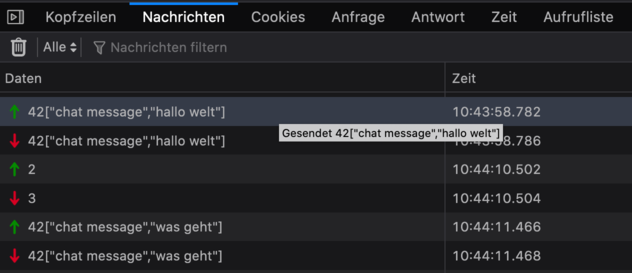
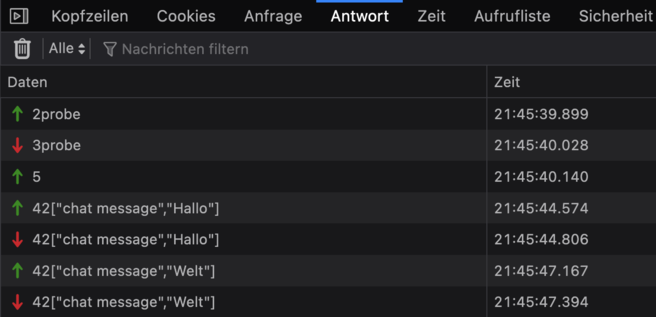
neu in websockets

diff --git a/content/applied-js-and-css/websocket.md b/content/applied-js-and-css/websocket.md
@@ -8,7 +8,8 @@ Dieses Protokoll ist nicht geeignet für Chat, für Spiele, .... wo die Kommunik
 auch vom Server ausgehen muss.
 
 Das Websocket Protokoll ermöglicht die Kommunikation in beide Richtungen auf
-einer dauerhaften Verbindung zwischen Client und Server.
+einer dauerhaften Verbindung zwischen Client und Server.  Es wird
+in [RFC 6455](https://www.rfc-editor.org/rfc/rfc6455.html) definiert.
 
 ## Das Websocket Protokoll
 
@@ -18,8 +19,20 @@ Das Websockets Protokol baut auf HTTP and HTTPS auf:
 * es startet immer mit einem normalen HTTP Request
 * es verwende Cookies
 
-Aber nach dem ersten Request wird die TCP Verbindung auf Dauer aufrechterhalten,
-und Client und Server wechseln in das eigentlih Websocket Protokoll:
+Soweit die Ähnlichkeiten mit HTTP.
+
+§
+
+URLs für Websockt beginnen mit `ws` oder `wss` für die verschlüsselte Version:
+
+
+* ws://server.example.com/chat
+* wss://server.example.com/chat
+
+§
+
+Nach dem "Upgrade: websocket" Request wird die TCP Verbindung auf Dauer aufrechterhalten,
+und Client und Server wechseln in das eigentliche Websocket Protokoll:
 
 
 <plain>
@@ -36,12 +49,33 @@ HTTP/1.1 101 Switching Protocols
 Upgrade: websocket
 Connection: Upgrade
 Sec-WebSocket-Accept: s3pPLMBiTxaQ9kYGzzhZRbK+xOo=
-Sec-WebSocket-Protocol: chat 
+Sec-WebSocket-Protocol: chat
+
 </plain>
 
-Nach diesem ersten Austausch müssen sowohl Server als auch Client
-jederzeit mit eingehenden Nachrichten umgehen.
+Nach diesem ersten Austausch müssen schalten Server und  Client
+auf das senden von "Frames" um.  Nun können beide jederzeit
+senden und müssen bereits sein eingehenden Nachrichten zu empfangen.
 
+Websocket Frames sind viel sparsamer als HTTP Requests und Responses:
+10 bis 18 Byte für Meta-Information plus der eigentliche Payload bilden einen Frame.
+
+![websocket frame](/images/websockets/websocket-frame.png)
+
+§
+
+Der (4 bit) Opcode gibt an welchen Typ der Payload hat:
+
+* `0000` - continuation frame, voriger Frame wird fortgesetzt
+* `0001` - text frame
+* `0010` - binary frame
+* `1000` - connection close
+* `1001` - ping
+* `1010` - pong
+
+Wenn einer der beiden Endpunkte ein ping sendet muss der andere mit einem
+pong antworten.  Dieser Mechanismus wird verwendet um die TCP-Verbindung
+aufrecht zu erhalten auch wenn gerade keine Daten geschickt werden müssen ("keepalive").
 
 ## Werkzeuge
 
@@ -50,18 +84,17 @@ jederzeit mit eingehenden Nachrichten umgehen.
 
 Beim Programmieren und Debuggen von Websockets braucht man die
 Developer Tools: In der "Netzwerkanalyse" sieht man den ersten
-Request, noch mit HTTP, der dann mit "101 Switching Protocol" in eine Websocket 
+Request, noch mit HTTP, der dann mit "101 Switching Protocol" in eine Websocket
 umgewandelt wird:
 
-![](/images/websockets/dev-tools-network.png)
 ![](/images/websockets/dev-tools-network-1.png)
 
-Im Tab "Nachrichten" sieht man die Nachrichten die hin oder her geschickt werden:
+Im Tab "Antwort" sieht man die Frames die hin oder her geschickt werden:
 
 ![](/images/websockets/dev-tools-network-2.png)
 
 Hier sieht man auch dass Client und Server sich gegenseitig
-"Ping"-Pakete senden wenn sonst nichts zu senden ist.
+Ping- und Pong-Frames senden wenn sonst nichts zu senden ist.
 
 
 ### node.js
@@ -79,25 +112,31 @@ nur im Backend Development verwendet, sondern auch sehr viel als Werkzeug
 für das Frontend Development.
 
 Für Node zu programmieren ist nicht einfach: wie im Browser, so wird auch in
-Node viel mit Asynchronen Aufrufen gearbeitet. 
+Node viel mit Asynchronen Aufrufen gearbeitet.
 
 ### glitch
 
 
 
 Node.js kann man [am eigenen Rechner installieren](https://nodejs.org/en/download/), das
-ist aber für diese Beispiel nicht nötig. Wir verwenden [https://glitch.com/](https://glitch.com/):
+ist aber für diese Beispiel nicht nötig. Wir verwenden [https://glitch.com/](https://glitch.com/).
+
+Mit Glitch kann man node.js Programme direkt im Browser schreiben. Der Code wird
+am Server von glitch gespeichert, und kann dort auch ausgeführt werden.
+
 
 ![](/images/websockets/glitch.png)
 
-Damit enfällt das hochladen des Codes auf einen Server.
+Damit braucht man also am eigenen Computer nur den Webbrowser.
+
+Das "Frontend" findet sich in der Datei `public/index.html`,  das Backend in `index.js`.
 
 
 ### Socket.io
 
 
 `socket.io` ist eine JavaScript Library für die Client und die Server-Seite
-von Websocket Verbindungen. 
+von Websocket Verbindungen.
 
 
 ## Programmierung des Client
@@ -124,17 +163,14 @@ durch drücken von enter), wird eine Nachricht an den Server geschickt:
 var socket = io();
 let form = document.getElementsByTagName('form')[0];
 let input = document.getElementById('m');
-form.addEventListener('submit', function() {  
-  socket.emit('chat message', m.value );
-  m.value="";
-  return false;
+form.addEventListener('submit', function(event) {
+  event.preventDefault();  // Form wird nicht "normal" gesendet
+  socket.emit('chat message', m.value );  // nur über socket
+  m.value=""; // Eingabefeld leeren
 });
 </javascript>
 
-
-
 ### Vom Server empfangen:
-
 
 Wenn vom Server eine Nachricht kommt,
 wird sie als neues `li` an die Liste angefügt:
@@ -145,26 +181,24 @@ wird sie als neues `li` an die Liste angefügt:
   socket.on('chat message', function(msg){
     let li = document.createElement('li');
     li.textContent = msg;
-    list.appendChild(li);   
+    list.appendChild(li);
     list.scrollTop = list.scrollHeight;
   });
 </javascript>
 
-
-
-
-
 ## Programmierung des Servers:
 
-Achtung: mit Node programmiert man gleich den ganzen
-Webserver mit - es gibt keinen apache oder nginx!
+Achtung: mit Node.js programmiert man nicht nur irgend
+ein Programm, das am Webserver läuft.  Man schreibt ein JavaScript-Programm,
+das den gesamten Job des Webserver mit erledigt.
 
 Das JavaScript-Programm läuft also die ganze Zeit und
-behandelt alle Anfragen.
+behandelt alle Anfragen.  Ein apache oder nginx ist nicht nötig.
 
-In folgendem Code repräsentiert `io` den ganzen Websocket,
-`io.emit`  ist also ein broadcast an alle verbundenene Clients.
-`socket` repräsentiert einen verbundenen client:
+In folgendem Code repräsentiert `io` den ganzen Websocket:
+Die Variable `socket` repräsentiert einen verbundenen Client.
+`io.emit()`  ist ein broadcast an alle verbundenene Clients,
+`socket.emit()` sendet nur an einen Client.
 
 <javascript>
 io.on('connection', function(socket){
@@ -181,16 +215,36 @@ io.on('connection', function(socket){
 });
 </javascript>
 
+## Messages
+
+Wir haben vom Client zum Server gesendet mit dem Befehl:
+
+<javascript>
+socket.emit('chat message', m.value ); 
+</javascript>
+
+Am Server haben wir auf diese Message reagiert mit:
+
+<javascript>
+socket.on('chat message', function(msg){
+  console.log(`got message '${msg}'...`);
+});
+</javascript>
+
+Der String 'chat message' ist frei gewählt.  Wir haben hier
+ein Protokoll auf dem Websocket erfunden, das bisher nur diese
+eine Message kennt.
+
+
 
 ## Weiterentwicklung
 
 Es gibt viele Möglichkeiten das Beispielprogramm weiter zu entwickeln:
 
-
 ### neue Message
 
 In diesem Beispiel haben wir nur `chat message` messages
-gesendet und empfangen.  Wir können beliebig neue Arten von 
+gesendet und empfangen.  Wir können beliebig neue Arten von
 messages, mit oder ohne payload, dazu erfinden.
 
 Zum Beispiel für Applaus:  Der Client kann eine Applause-Meldung
@@ -198,15 +252,16 @@ ohne weitere Daten schicken.  Der Server kann applause mit
 einer Zahl schicken
 
 <javascript>
+// am Client:
   document.getElementById('applause').addEventListener('click',function(){
     socket.emit('applause');
   })
   socket.on('applause', function(text){
-    let li = document.createElement('li');   
-    let strength = parseInt(text);       
+    let li = document.createElement('li');
+    let strength = parseInt(text);
     li.textContent = "👏".repeat(strength);
-    list.appendChild(li);   
-    list.scrollTop = list.scrollHeight;         
+    list.appendChild(li);
+    list.scrollTop = list.scrollHeight;
   });
 </javascript>
 
@@ -221,24 +276,28 @@ man zum Beispiel einen Audio-Clip abspielen.
 
 ### Andere Logik am Server
 
-Am Server könnte man mit-zählen wie viel User anwesend sind:
+Am Server könnte man mit-zählen wie viel User anwesend sind.
+Dazu legt man eine globale Variable `users` an.  Solange das JavaScript-Programm 
+am Server läuft bleibt diese Variable erhalten.  Wenn der Server neu gestartet
+werden muss - z.B. weil man die Datei `index.js` editiert hat - dann geht der
+Inhalt der Variable verloren.
 
 <javascript>
-var users = [];
+let users = [];
 function remove_from(users, socket){
-  users = users.filter(s => s.id != socket.id);  
+  users = users.filter(s => s.id != socket.id);
 }
 io.on('connection', function(socket){
   // called every time a client connects
   console.log(`ein neuer client mit id ${socket.id}`);
   users.push(socket);
   io.emit('chat message', `there are now ${users.length} users`);
-   
+
   ....
   socket.on('disconnect', function(){
     remove_from(users, socket);
     console.log('user disconnected');
-    io.emit('chat message', `there are now ${users.length} users`);  
+    io.emit('chat message', `there are now ${users.length} users`);
   });
 });
 </javascript>
@@ -246,5 +305,6 @@ io.on('connection', function(socket){
 
 ## See Also
 
-* [RFC 6455](https://tools.ietf.org/html/rfc6455)
+* [RFC 6455](https://www.rfc-editor.org/rfc/rfc6455.html)
+* [Websockets im MDN](https://developer.mozilla.org/en-US/docs/Web/API/WebSockets_API)
 * [socket.io](https://socket.io/)
